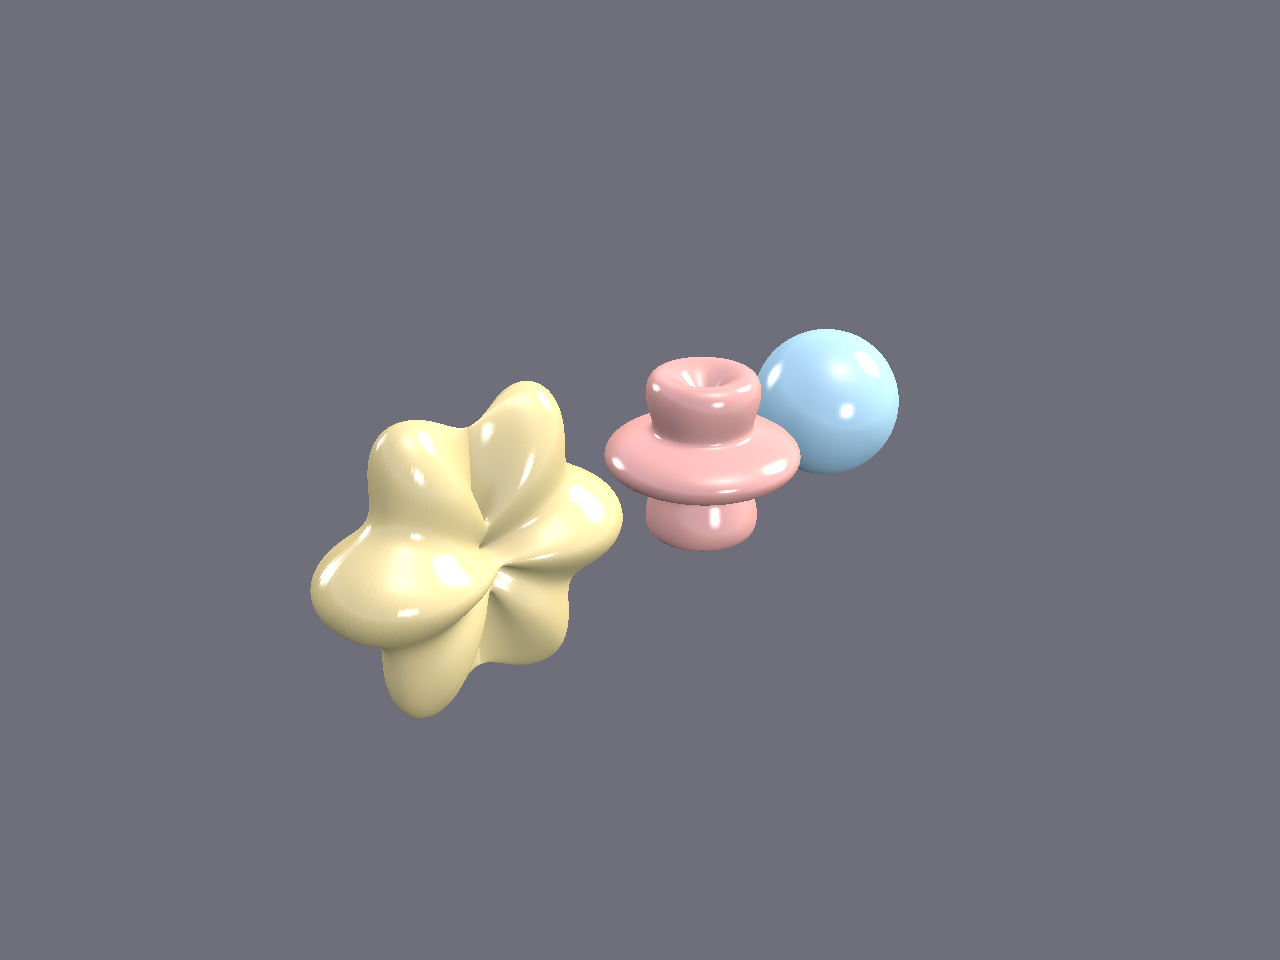
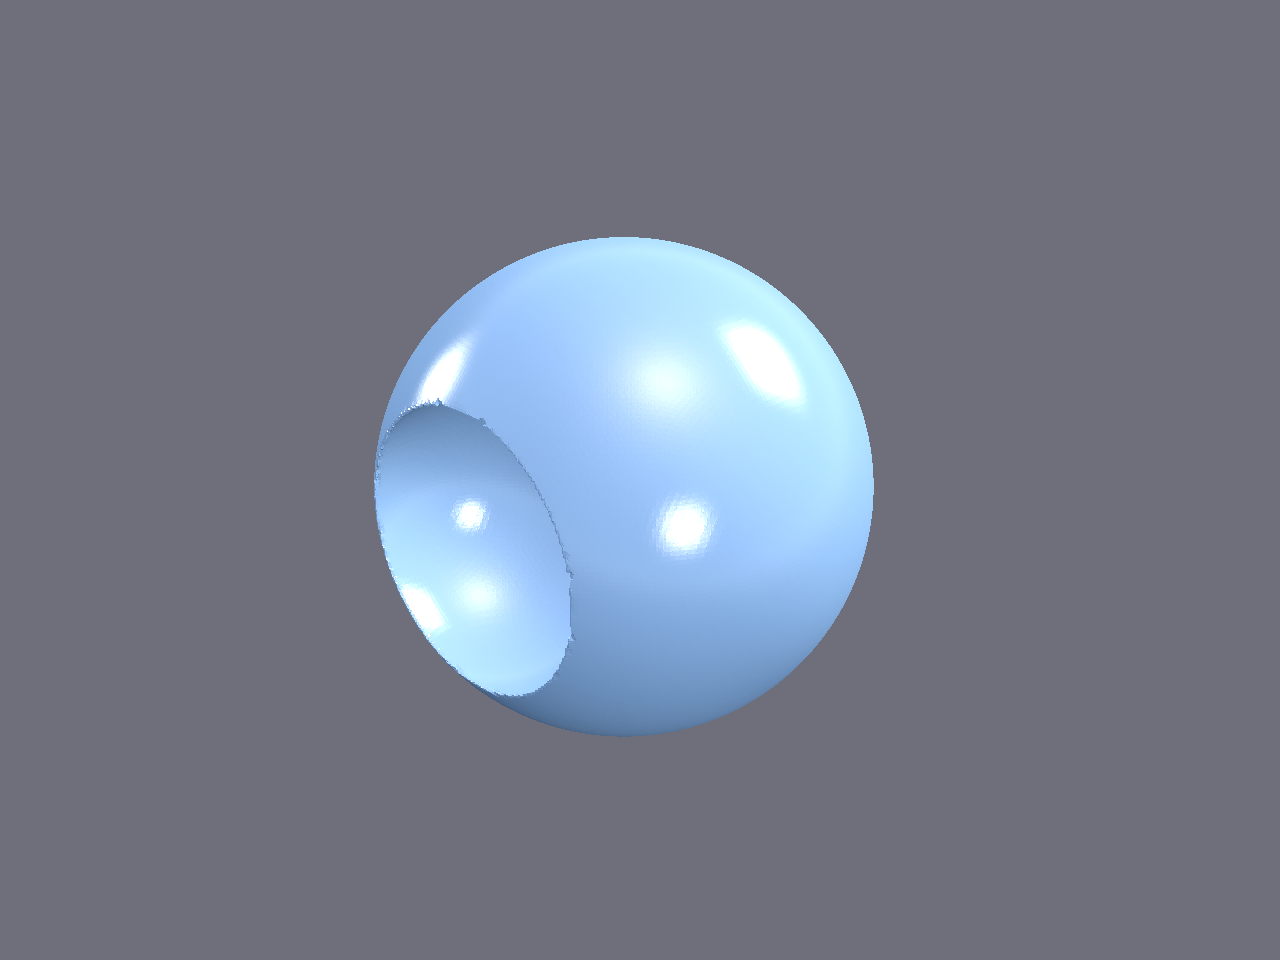
Update Go examples using FFI SDK

Changed region(s): [[0.2188, 0.25, 0.7188, 0.7812]]

diff --git a/scripts/regenerate-gallery-images.py b/scripts/regenerate-gallery-images.py
@@ -3,18 +3,22 @@
 Regenerate all gallery images for both the Go and MoonBit PicoGK SDKs.
 
 This script:
-  1. Runs the Go shapekernel-gallery example to produce 16 gallery PNGs
-  2. Runs the Go viewer-demo example to produce the viewer PNG
-  3. Runs the Go visualize example to produce slice + preview PNGs
+  1. Runs the Go FFI shapekernel-gallery example to produce 16 gallery PNGs
+  2. Runs the Go FFI viewer-demo example to produce the viewer PNG
+  3. Runs the Go FFI visualize example to produce slice + preview PNGs
   4. Runs the MoonBit shapekernel-gallery example to produce 16 gallery PNGs
   5. Runs the MoonBit viewer-demo example
   6. Runs the MoonBit visualize example
   7. Compares Go vs MoonBit gallery images for visual similarity
   8. Copies generated images into the docs/images/ directories
 
+Both the Go and MoonBit SDKs use the newer in-process FFI bindings
+(picogkffi / gmlewis/picogkffi), which bind directly to the native
+PicoGK C++ runtime and render via the native OpenGL Viewer.
+
 Requires:
-  - The PicoGK MCP server at ~/.local/bin/picogk-mcp/PicoGK.Mcp
-  - Go 1.26+ (go command on PATH)
+  - The PicoGK native runtime (built under native/)
+  - Go 1.22+ (go command on PATH)
   - MoonBit (moon command on PATH)
   - Python 3 with Pillow (pip install Pillow) for image comparison
 
@@ -33,10 +37,10 @@ from pathlib import Path
 REPO_ROOT = Path(__file__).resolve().parent.parent
 GO_SDK = REPO_ROOT / "sdk" / "go"
 MBT_SDK = REPO_ROOT / "sdk" / "mbt"
-GO_GALLERY_DIR = GO_SDK / "examples" / "shapekernel-gallery"
+GO_GALLERY_DIR = GO_SDK / "examples" / "ffi-gallery"
 MBT_GALLERY_DIR = MBT_SDK / "examples" / "shapekernel-gallery"
-GO_VIEWER_DIR = GO_SDK / "examples" / "viewer-demo"
-GO_VISUALIZE_DIR = GO_SDK / "examples" / "visualize"
+GO_VIEWER_DIR = GO_SDK / "examples" / "ffi-viewer-demo"
+GO_VISUALIZE_DIR = GO_SDK / "examples" / "ffi-visualize"
 MBT_VIEWER_DIR = MBT_SDK / "examples" / "viewer-demo"
 MBT_VISUALIZE_DIR = MBT_SDK / "examples" / "visualize"
 
@@ -188,46 +192,46 @@ def main():
     all_success = True
 
     # Output directories
-    go_output = Path("/tmp/go-picogk-gallery")
+    go_output = Path("/tmp/go-ffi-gallery")
     mbt_output = Path("/tmp/mbt-picogk-gallery")
-    go_viewer_output = Path("/tmp/go-picogk-viewer")
-    go_visualize_output = Path("/tmp/go-picogk-visualize")
+    go_viewer_output = Path("/tmp/go-picogkffi-viewer")
+    go_visualize_output = Path("/tmp/go-picogkffi-visualize")
     mbt_viewer_output = Path("/tmp/mbt-picogk-viewer")
     mbt_visualize_output = Path("/tmp/mbt-picogk-visualize")
 
     # --- Go examples ---
     if run_go:
         print("\n" + "=" * 60)
-        print("  GO SDK: Regenerating gallery images")
+        print("  GO SDK (FFI): Regenerating gallery images")
         print("=" * 60)
 
-        # Run the Go shapekernel-gallery
+        # Run the Go shapekernel-gallery (FFI)
         ok = run(
-            ["go", "run", "main.go"],
+            ["go", "run", "main.go", "-out", str(go_output)],
             cwd=GO_GALLERY_DIR,
-            label="Go: shapekernel-gallery (16 scenes)",
+            label="Go: ffi-gallery (16 scenes)",
             timeout=600,
             verbose=args.verbose,
         )
         all_success = all_success and ok
         go_files = check_files(go_output, [f"{s}.png" for s in GALLERY_SCENES], "Go gallery PNGs")
 
-        # Run the Go viewer-demo
+        # Run the Go viewer-demo (FFI)
         ok = run(
             ["go", "run", "main.go", str(go_viewer_output / "viewer_demo.png")],
             cwd=GO_VIEWER_DIR,
-            label="Go: viewer-demo",
+            label="Go: ffi-viewer-demo",
             timeout=120,
             verbose=args.verbose,
         )
         all_success = all_success and ok
         check_files(go_viewer_output, ["viewer_demo.png"], "Go viewer PNG")
 
-        # Run the Go visualize
+        # Run the Go visualize (FFI)
         ok = run(
             ["go", "run", "main.go"],
             cwd=GO_VISUALIZE_DIR,
-            label="Go: visualize",
+            label="Go: ffi-visualize",
             timeout=120,
             verbose=args.verbose,
         )
